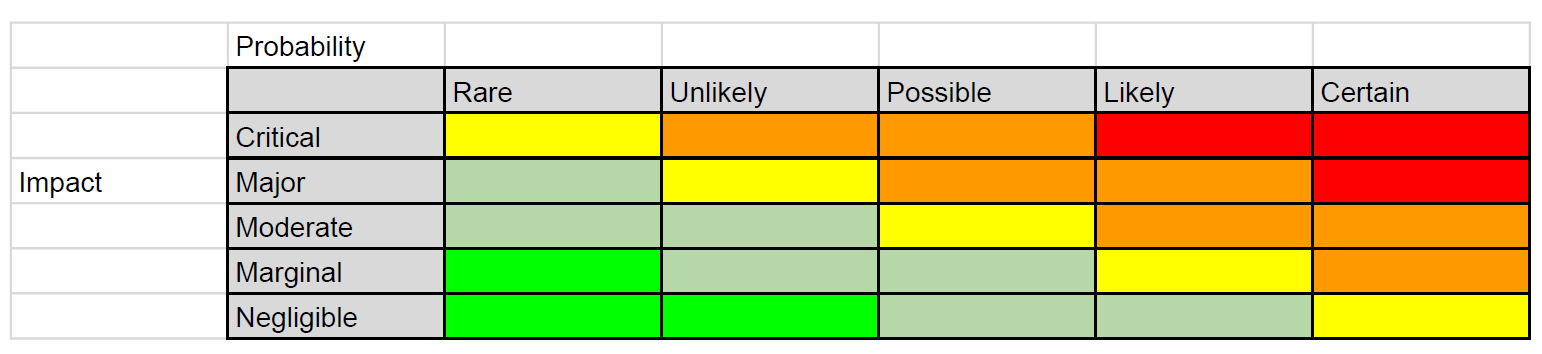
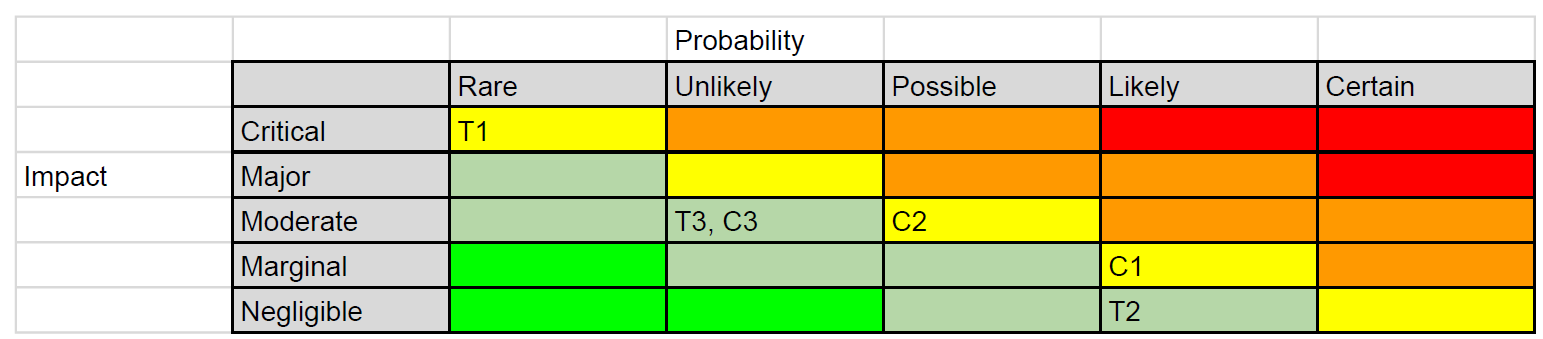
-Added glossary to Reference Information page.  Updated Risk Matrix image with new matrix with added values.

Changed region(s): [[0.0, 0.0295, 0.9961, 1.0]]

diff --git a/reference-info.html b/reference-info.html
@@ -78,6 +78,67 @@
                 </div>  
 
             </div>
+            
+            
+            <div class="navbar-spacing">
+                <div class="container">
+                    <div class="row">
+                        <section id="tm-selection-4">
+                            <!-- <h2 class="title">Problem Description</h2> -->
+                            <div class="row gray-bg">
+                                <div class="tm-container tm-container-wide">
+                                    <div class="tm-news-item">
+                                        <div class="tm-news-container">
+                                            <br>
+                                            <h2 class="tm-news-title dark-gray-text">Glossary</h2>
+                                            <p class="tm-news-text">
+                                                <strong>Web Scrape</strong></br>
+                                                <span style="font-style: italic">verb</span></br>
+                                                Method used to collect information from an internet web page. Typically, this is done with specialized software that simulates human web surfing.</br>
+                                                <a class="hyperlink" href="https://www.techopedia.com/definition/5212/web-scraping">Technopedia</a>
+                                            </p>
+                                            <p class="tm-news-text">
+                                                <strong>Elastic Search</strong></br>
+                                                <span style="font-style: italic">noun</span></br>
+                                                A document database, highly optimized to operate as a search engine. Documents are stored as JSON and are indexed for efficient querying.</br>
+                                                <a class="hyperlink" href="https://docs.microsoft.com/en-us/azure/architecture/elasticsearch/">Microsoft</a>
+                                            </p>
+                                            <p class="tm-news-text">
+                                                <strong>Search Engine Optimization (SEO)</strong></br>
+                                                <span style="font-style: italic">noun</span></br>
+                                                Search engine optimization (SEO) refers to methods used to increase traffic to a website by increasing its search engine page rank.</br>
+                                                <a class="hyperlink" href="https://www.techopedia.com/definition/5391/search-engine-optimization-seo">Technopedia</a>
+                                            </p>
+                                            <p class="tm-news-text">
+                                                <strong>Metadata</strong></br>
+                                                <span style="font-style: italic">noun</span></br>
+                                                Brief descriptive bits of information that describe larger pieces of data. Usually used primarily to boost SEO.</br>
+                                                <a class="hyperlink" href="https://www.techopedia.com/definition/1938/metadata">Technopedia</a>
+                                            </p>
+                                            <p class="tm-news-text">
+                                                <strong>Registered User</strong></br>
+                                                <span style="font-style: italic">noun</span></br>
+                                                A user who has created an account with Mariana. Registered Users can sign into Mariana with a user name and password, and they can save and delete queries.</br>
+                                            </p>
+                                            <p class="tm-news-text">
+                                                <strong>Guest User</strong></br>
+                                                <span style="font-style: italic">noun</span></br>
+                                                A user who has not created an account with Mariana.</br>
+                                            </p>
+                                            <p class="tm-news-text">
+                                                <strong>Administrator</strong></br>
+                                                <span style="font-style: italic">noun</span></br>
+                                                A registered user with privileges to reset the passwords and modify the queries of other registered users.</br>
+                                            </p>
+                                        </div>
+                                    </div>
+                                </div>
+                            </div>
+                        </section>
+                    </div>
+                </div>
+            </div>  <!--end glossary-->
+            
             <div class="navbar-spacing">
                 <div class="container">
                     <div class="row">

diff --git a/css/layout.css b/css/layout.css
@@ -41,6 +41,7 @@ img{margin:0; padding:0; border:none;}
 
 .bio-img{max-width: 150px; max-height: 150px;}
 .navbar-spacing{padding-top: 100px;}
+.hyperlink{color:blue;}
 
 .slideshow {
     position: relative;
